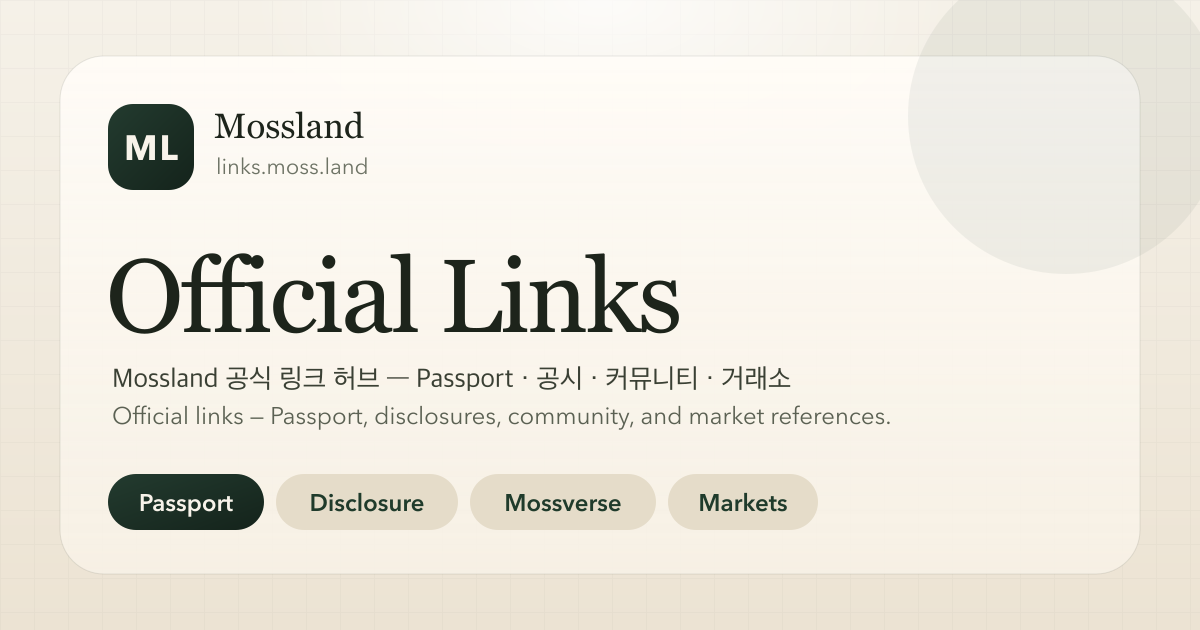
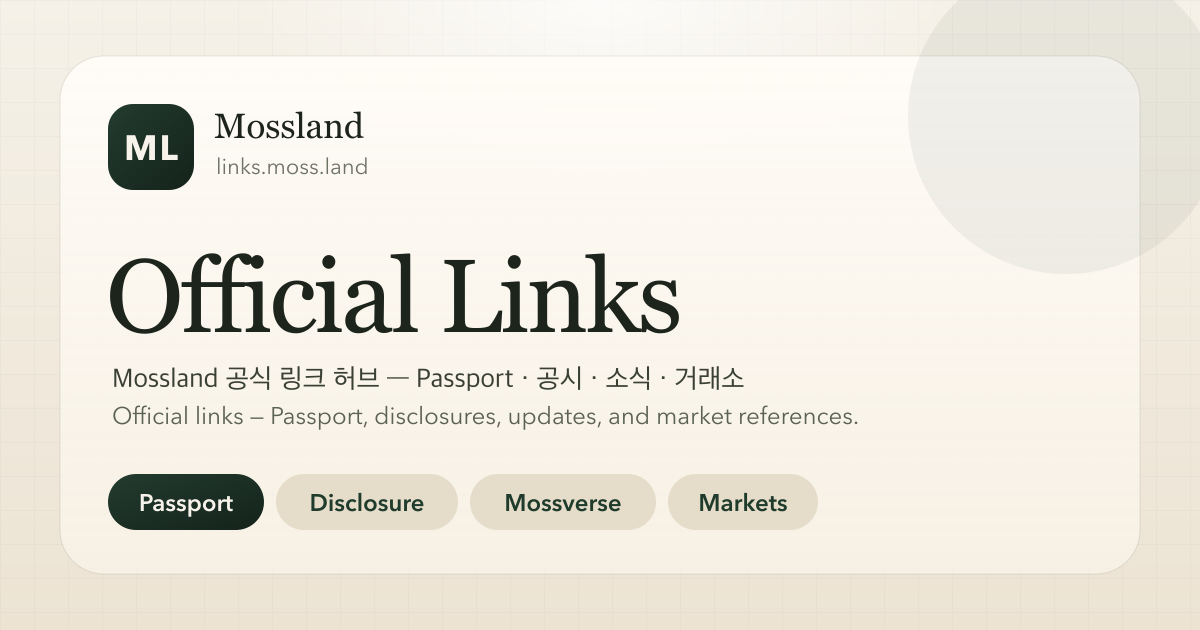
Unify brand mark, refine copy, add external-link cues
- Favicon: switch to the "ML" lockup so the browser tab matches the
  page header tile and the OG card (previously a standalone "M").
- Add a 180x180 apple-touch-icon for iOS home-screen saves.
- Copy: replace "커뮤니티 / community" with "소식 / updates" across the
  page and OG image — accurate for the Medium/X surfaces actually
  listed, and distinct from 공시 / disclosure (no chat channel exists).
- Add a subtle ↗ external-link cue after each link-row title that
  lifts on hover/focus, signalling rows open in a new tab.
- Regenerate og.png with the updated copy; refresh README file list.

Changed region(s): [[0.4317, 0.573, 0.74, 0.6937]]

diff --git a/index.html b/index.html
@@ -6,10 +6,11 @@
     <title>Mossland Official Links</title>
     <meta
       name="description"
-      content="Mossland 공식 링크 허브 — Passport, 공시, 커뮤니티, 거래소 링크를 한 곳에서. Official Mossland links — Passport, disclosures, community, and market references."
+      content="Mossland 공식 링크 허브 — Passport, 공시, 소식, 거래소 링크를 한 곳에서. Official Mossland links — Passport, disclosures, updates, and market references."
     />
     <meta name="theme-color" content="#1f3b2b" />
     <link rel="icon" type="image/svg+xml" href="/favicon.svg" />
+    <link rel="apple-touch-icon" href="/apple-touch-icon.png" />
     <link rel="canonical" href="https://links.moss.land/" />
     <meta property="og:type" content="website" />
     <meta property="og:site_name" content="Mossland" />
@@ -18,7 +19,7 @@
     <meta property="og:title" content="Mossland Official Links" />
     <meta
       property="og:description"
-      content="Mossland 공식 링크 허브 — Passport, 공시, 커뮤니티, 거래소 링크. Official Mossland links."
+      content="Mossland 공식 링크 허브 — Passport, 공시, 소식, 거래소 링크. Official Mossland links."
     />
     <meta property="og:url" content="https://links.moss.land/" />
     <meta property="og:image" content="https://links.moss.land/og.png" />
@@ -31,7 +32,7 @@
     <meta name="twitter:title" content="Mossland Official Links" />
     <meta
       name="twitter:description"
-      content="Official Mossland links — Passport, disclosures, community, and market references."
+      content="Official Mossland links — Passport, disclosures, updates, and market references."
     />
     <meta name="twitter:image" content="https://links.moss.land/og.png" />
     <meta name="twitter:image:alt" content="Mossland Official Links" />
@@ -339,6 +340,23 @@
         font-weight: 600;
       }
 
+      .link-copy strong::after {
+        content: "↗";
+        display: inline-block;
+        margin-left: 6px;
+        font-size: 0.78em;
+        font-weight: 700;
+        color: var(--muted);
+        opacity: 0.5;
+        transition: transform 180ms ease, opacity 180ms ease;
+      }
+
+      .link:hover .link-copy strong::after,
+      .link:focus-visible .link-copy strong::after {
+        opacity: 0.9;
+        transform: translate(2px, -2px);
+      }
+
       .link-copy span {
         display: block;
         margin-top: 4px;
@@ -509,8 +527,8 @@
 
         <section class="hero" aria-labelledby="title">
           <h1 id="title">Mossland Official Links</h1>
-          <p lang="ko">Mossland 공식 링크 허브 — Passport, 공시, 커뮤니티, 거래소 링크를 한 곳에서.</p>
-          <p class="hero-sub" lang="en">Mossland's official link hub — Passport, disclosures, community, and market references.</p>
+          <p lang="ko">Mossland 공식 링크 허브 — Passport, 공시, 소식, 거래소 링크를 한 곳에서.</p>
+          <p class="hero-sub" lang="en">Mossland's official link hub — Passport, disclosures, updates, and market references.</p>
           <div class="hero-actions">
             <a
               href="https://passport.moss.land/"

diff --git a/README.md b/README.md
@@ -9,7 +9,8 @@ references. It is deployed with AWS Amplify and served at `https://links.moss.la
 ## Files
 
 - `index.html` - main page (single file, inline CSS)
-- `favicon.svg` - site icon
+- `favicon.svg` - site icon (ML mark)
+- `apple-touch-icon.png` - 180×180 iOS home-screen icon
 - `og.png` - 1200×630 Open Graph / Twitter social card image
 - `amplify.yml` - Amplify build and deploy config (artifact list)
 - `customHttp.yml` - Amplify custom response headers (CSP, HSTS, etc.)
